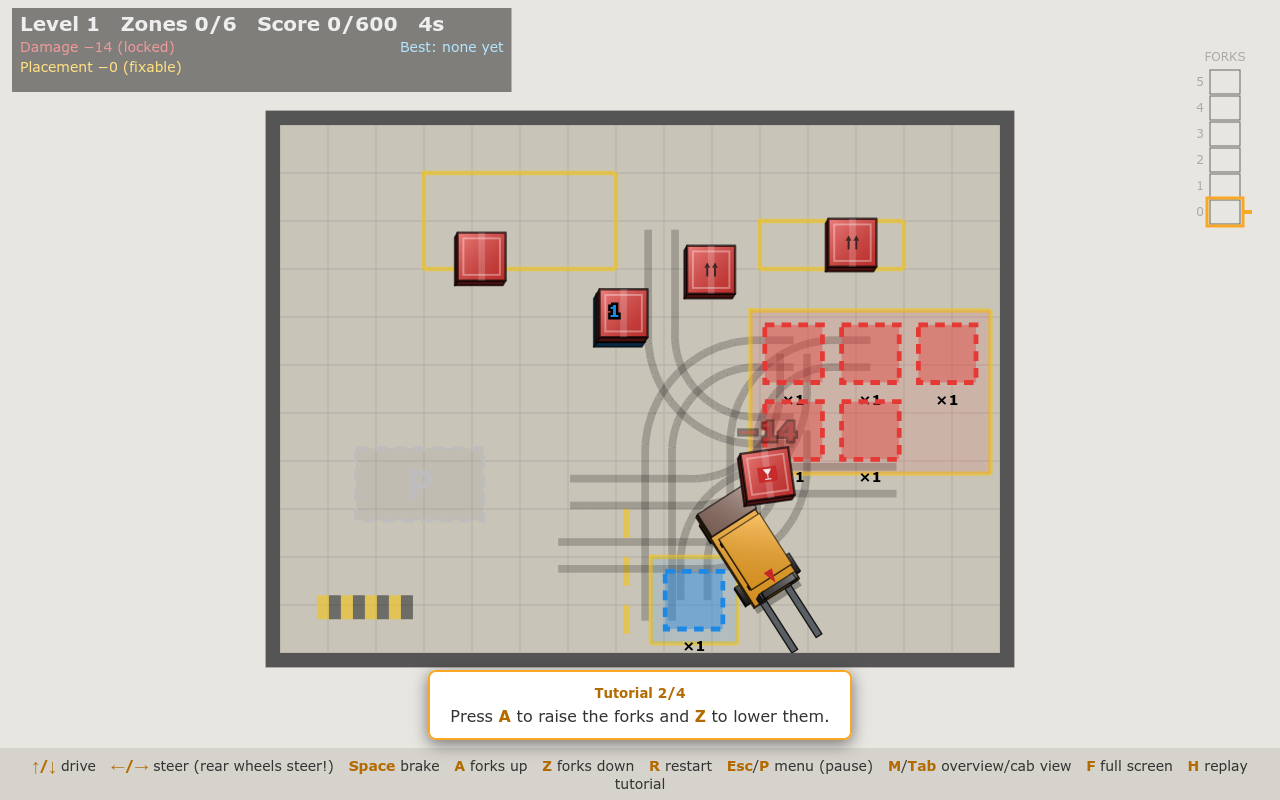
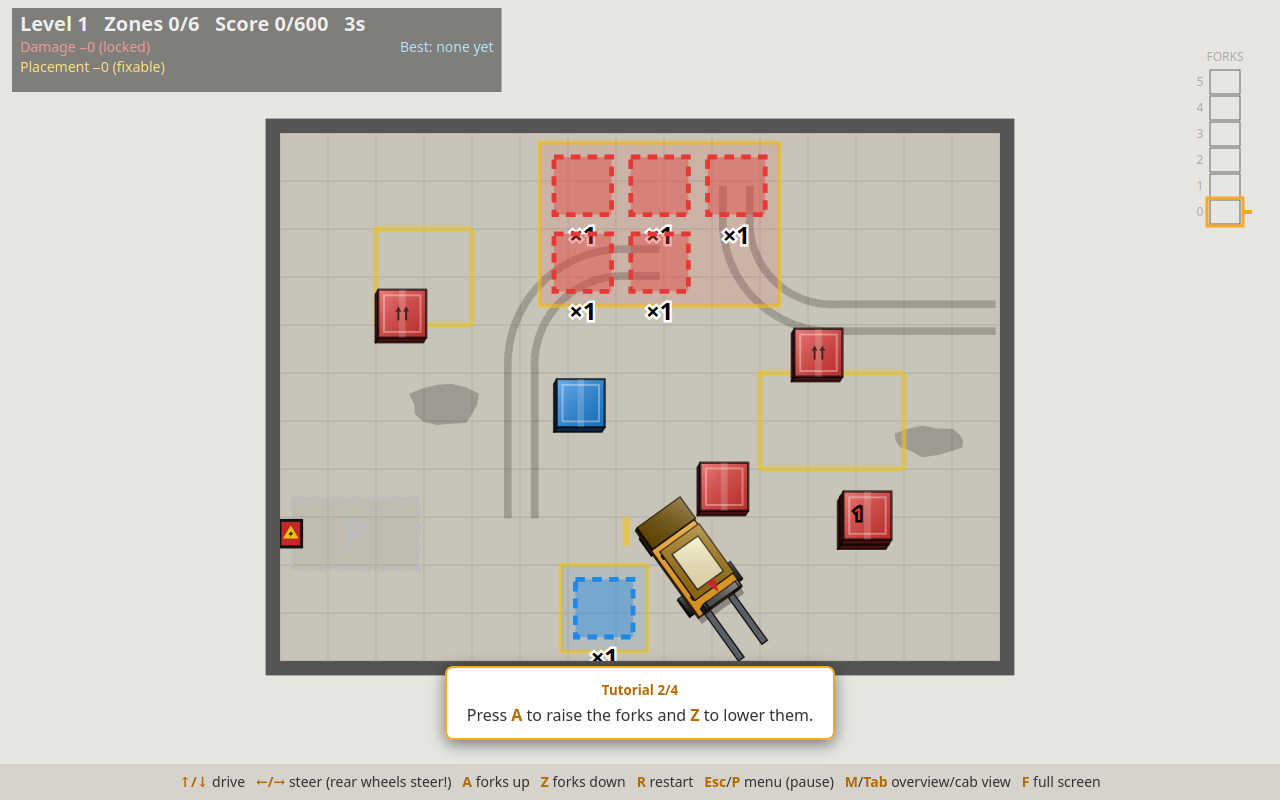
Rewrite presentation from scratch with Oct 28 changes, fresh stats and screenshots

diff --git a/docs/presentation.html b/docs/presentation.html
@@ -26,7 +26,7 @@
   .row figure { flex: 1.2; margin: 0; }
   figure img { width: 100%; border-radius: 8px; border: 1px solid #2a313b; box-shadow: 0 6px 24px #0008; display: block; }
   figcaption { font-size: 1.1vw; color: #9aa4b2; margin-top: 1vh; }
-  .chart { display: flex; gap: 1.6vw; align-items: flex-end; justify-content: center; height: 52vh; margin-top: 1vh; }
+  .chart { display: flex; gap: 1.2vw; align-items: flex-end; justify-content: center; height: 52vh; margin-top: 1vh; }
   .col { display: flex; flex-direction: column; align-items: center; justify-content: flex-end; width: 9vw; }
   .col .n { font-size: 2.2vw; font-weight: bold; color: #ffc933; margin-bottom: .6vh; }
   .col .stack { display: flex; flex-direction: column-reverse; width: 100%; border-bottom: 3px solid #6b7684; padding-bottom: 2px; }
@@ -42,7 +42,7 @@
 <section class="slide">
   <h1>Forklift Frenzy</h1>
   <div class="sub">The development timeline of a top-down, keyboard-only forklift puzzle</div>
-  <div class="sub" style="margin-top:3vh">21 – 27 October 2026 · 202 commits · vanilla JS + Canvas 2D · no build, no dependencies</div>
+  <div class="sub" style="margin-top:3vh">21 – 28 October 2026 · 235 commits · vanilla JS + Canvas 2D · no build, no dependencies</div>
   <div class="sub" style="margin-top:6vh;font-size:1.4vw">← / → or Space to navigate</div>
 </section>
 
@@ -52,13 +52,14 @@
     <li>Stack coloured boxes in matching drop zones, then park the forklift</li>
     <li>Rear-wheel-steering bicycle model: the tail swings out</li>
     <li>Deterministic seeded level generator (<code>mulberry32</code>)</li>
-    <li>DOM-free game logic, so tests run in plain Node</li>
-    <li>Static files on GitHub Pages; Firefox is the primary target</li>
+    <li>DOM-free game logic, so the tests run in plain Node</li>
+    <li>Static files on GitHub Pages (and an installable PWA); Firefox is the primary target</li>
   </ul>
   <div class="stats">
-    <div class="stat"><b>~3.7k</b><span>lines of JS</span></div>
+    <div class="stat"><b>~3.9k</b><span>lines of JS</span></div>
+    <div class="stat"><b>235</b><span>commits</span></div>
     <div class="stat"><b>0</b><span>dependencies</span></div>
-    <div class="stat"><b>5</b><span>days of development</span></div>
+    <div class="stat"><b>8</b><span>days (7 with commits)</span></div>
   </div>
 </section>
 
@@ -79,70 +80,47 @@
 
 <section class="slide">
   <div class="date">Day 1 · 21 Oct · Midday</div>
-  <h2>Rules, scoring &amp; polish</h2>
+  <h2>Rules, scoring &amp; branding</h2>
   <div class="row">
   <ul>
     <li>Per-box scoring: crash and squareness deductions (5° allowance)</li>
     <li>Parking spot; finishing needs parking and ≥ 50% score</li>
     <li>Procedural audio: engine whine, music, fork sounds, success chime</li>
     <li>Rebrand to “Forklift Frenzy”: splash screen, favicon, 3D boxes</li>
-    <li>Custom level seeds, random-seed button</li>
-    <li>Project docs: Copilot instructions and <code>CODE_GUIDE.md</code></li>
+    <li>Custom level seeds and a random-seed button</li>
   </ul>
   <figure><img src="shots/02-graphical-overhaul.png" alt=""><figcaption>After the graphical overhaul (ca4b8d9)</figcaption></figure>
   </div>
 </section>
 
 <section class="slide">
-  <div class="date">Day 1 · 21 Oct · Afternoon</div>
-  <h2>Cabin (first-person) view</h2>
+  <div class="date">Day 1 · 21 Oct · Afternoon &amp; evening</div>
+  <h2>Cabin view, tutorial &amp; high scores</h2>
   <div class="row">
   <ul>
-    <li>Polygon-projected FPV with forks, pallets, zones and parking</li>
-    <li>Occlusion clipping, lids, undersides and pallets open on all sides</li>
+    <li>Polygon-projected first-person view with forks, pallets, zones and parking</li>
     <li>Camera follows fork height; rear-view and side mirrors</li>
-    <li>Floor grid and wall textures; dark mode</li>
+    <li>Nudging a box slowly squares it to the forklift</li>
+    <li>Local high scores per level and seed, with a time penalty</li>
+    <li>Step-by-step, action-dismissed tutorial; pause on lost focus</li>
   </ul>
   <figure><img src="shots/03-first-cabin-view.png" alt=""><figcaption>First cabin view (e16cdf4)</figcaption></figure>
   </div>
 </section>
 
 <section class="slide">
-  <div class="date">Day 1 · 21 Oct · Evening</div>
-  <h2>Onboarding &amp; progression</h2>
-  <ul>
-    <li>Nudging a box slowly squares it to the forklift</li>
-    <li>Local high scores per level and seed; time penalty</li>
-    <li>Pause on lost focus</li>
-    <li>Step-by-step, action-dismissed tutorial</li>
-    <li>Drop-off areas favour outer walls</li>
-  </ul>
-</section>
-
-<section class="slide">
   <div class="date">Day 3 · 23 Oct</div>
-  <h2>Hard mode &amp; physics depth</h2>
+  <h2>Physics depth &amp; new levels</h2>
   <div class="row">
   <ul>
-    <li>Pallets glide, split or get pushed when turning with forks inside</li>
-    <li>Hard mode: tines collide with pallet runners; push torque turns boxes</li>
+    <li>Hard mode: pallets glide, split or get pushed; tines hit pallet runners</li>
     <li>Boxes need 50% support or fall beside the stack; crooked towers</li>
     <li>Rooms-and-corridors level generator replaces random pillars</li>
-    <li>Cab view rewritten as a polygon-projection renderer</li>
+    <li>Escape menu with full screen, mute, go-to-level and shortcuts</li>
+    <li>Floating damage popups and a break sound</li>
   </ul>
   <figure><img src="shots/04-rooms-corridors.png" alt=""><figcaption>Rooms-and-corridors levels (c328e96)</figcaption></figure>
   </div>
-</section>
-
-<section class="slide">
-  <div class="date">Day 3 · 23 Oct</div>
-  <h2>Menus &amp; feedback</h2>
-  <ul>
-    <li>Escape menu: engine whine, music, restart, hard mode, go to level</li>
-    <li>Full screen, mute-all, underlined keyboard shortcuts</li>
-    <li>Parking spot shows the required heading arrow; random spawn</li>
-    <li>Floating damage popups and a break sound</li>
-  </ul>
 </section>
 
 <section class="slide">
@@ -150,12 +128,11 @@
   <h2>Handling &amp; factory atmosphere</h2>
   <div class="row">
   <ul>
-    <li>Height-based speed limit for raised forks</li>
-    <li>Larger steering lock, tapered by speed (later no longer limited by fork height)</li>
-    <li>Overview becomes the default view; view mode is remembered</li>
-    <li>Floor decals: tire marks, yellow markings, windows, doors, signs</li>
-    <li>Ceiling, factory lights, fans; walls raised to clear a 5-box stack</li>
-    <li>Box decals; <code>?debug</code> overlay with FPS and state</li>
+    <li>Height-based speed limit for raised forks; larger, speed-tapered steering lock</li>
+    <li>Overview becomes the default view and is remembered</li>
+    <li>Floor and wall decals: tire marks, yellow markings, windows, doors, signs</li>
+    <li>Ceiling, factory lights and fans; walls raised to clear a 5-box stack</li>
+    <li>Box decals and a <code>?debug</code> overlay</li>
   </ul>
   <figure><img src="shots/05-decals.png" alt=""><figcaption>Floor and wall decals (aed730f)</figcaption></figure>
   </div>
@@ -163,35 +140,25 @@
 
 <section class="slide">
   <div class="date">Day 5 · 25 Oct</div>
-  <h2>Sound &amp; music</h2>
+  <h2>Sound, saves &amp; touch</h2>
   <ul>
     <li>Reversing beep and a blue reversing light that walls cut off</li>
-    <li>Selectable music: generated tracks, then public-domain and CC0 MIDI songs with a drum synth</li>
-    <li>Clearer MIDI voices (EQ, brighter instruments, tighter reverb)</li>
-    <li>New music library: country, classical, industrial metal, techno and more, all CC0/public domain with quirky names</li>
+    <li>Selectable MIDI music (public domain / CC0) with a drum synth; wall bonk and scrape sounds</li>
+    <li>Progress saved in <code>localStorage</code>; export/import of level state</li>
+    <li>Wall-mounted charger to park against; carried stacks can't be lifted into the ceiling</li>
+    <li>On-screen touch controls and an installable PWA</li>
+    <li>First version of this presentation</li>
   </ul>
 </section>
 
 <section class="slide">
-  <div class="date">Day 5 · 25 Oct</div>
-  <h2>Final touches</h2>
-  <div class="row">
-  <ul>
-    <li>Score explanations on splash and level-complete screens</li>
-    <li>Level timer stops on completion; jump to lowest unscored level</li>
-    <li>Debug overlay shows update/draw/idle share</li>
-  </ul>
-  <figure><img src="shots/06-overview-latest.png" alt=""><figcaption>Latest overview, with damage popups and tutorial</figcaption></figure>
-  </div>
-</section>
-
-<section class="slide">
-  <div class="date">Day 5 · 25 Oct</div>
-  <h2>On the phone: touch controls</h2>
+  <div class="date">Days 6–7 · 26 – 27 Oct</div>
+  <h2>On the phone</h2>
   <ul style="font-size:1.6vw;margin:0 0 2vh">
-    <li>On-screen buttons, tap to continue, a zoomed follow-camera overview with a minimap</li>
-    <li>Rotatable PWA: landscape layout with the field up top, steering bottom left, drive/forks bottom right, minimap and status between</li>
-    <li>Brake removed: engine braking does the slowing; touch start goes full screen</li>
+    <li>Rotatable landscape layout: field on top, steering bottom left, drive/forks bottom right, minimap and status between</li>
+    <li>Zoomed follow-camera overview; the map pans past its edges so pads never hide it</li>
+    <li>Brake removed (engine braking does the slowing); touch start enters full screen</li>
+    <li>Touch state derived from live touches (fixes flaky PWA steering); service worker bypasses the HTTP cache</li>
   </ul>
   <div style="display:flex;gap:3vw;align-items:center;justify-content:center">
     <figure style="margin:0;flex:2.2;max-width:60vw"><img src="shots/08-touch-landscape.png" alt=""><figcaption style="text-align:center">Landscape: steering left, drive and forks right, minimap and status between</figcaption></figure>
@@ -200,8 +167,37 @@
 </section>
 
 <section class="slide">
-  <h2>Where it ended up: the cabin view</h2>
-  <figure style="margin:0;max-height:70vh"><img src="shots/07-cabin-latest.png" alt="" style="max-height:68vh;width:auto;margin:0 auto"><figcaption style="text-align:center">Latest cabin view: mirrors, decals, zone labels and damage popups (HEAD)</figcaption></figure>
+  <div class="date">Day 8 · 28 Oct</div>
+  <h2>A splash with style</h2>
+  <div class="row">
+  <ul>
+    <li>Splash: a forklift drifting a figure eight with smoke, boxes and permanent skidmarks</li>
+    <li>Higher wall/floor contrast; the in-game forklift restyled to match the splash</li>
+    <li>Bigger levels now that the map pans</li>
+    <li>Fullscreen is an opt-in menu setting; pause-menu touches no longer reach the pad</li>
+    <li>Service worker auto-reloads on a new version</li>
+  </ul>
+  <figure><img src="shots/10-splash-figure-eight.png" alt=""><figcaption>The new splash screen (HEAD)</figcaption></figure>
+  </div>
+</section>
+
+<section class="slide">
+  <div class="date">Day 8 · 28 Oct</div>
+  <h2>New soundtrack &amp; calmer menus</h2>
+  <ul>
+    <li>Music library replaced: country, classical, industrial metal, techno and more, all CC0 / public domain</li>
+    <li>Music keeps playing in the pause menu and when focus is lost</li>
+    <li>Tutorial restart moved from the <code>H</code> key to a pause-menu button</li>
+    <li>Pause-menu shortcuts for tutorial, resume, auto-fullscreen and hard mode dropped</li>
+  </ul>
+</section>
+
+<section class="slide">
+  <h2>Where it ended up</h2>
+  <div style="display:flex;gap:2vw;align-items:flex-start;justify-content:center">
+    <figure style="margin:0;flex:1"><img src="shots/06-overview-latest.png" alt=""><figcaption style="text-align:center">Overview: tutorial, fork gauge, yellow drop-off outlines</figcaption></figure>
+    <figure style="margin:0;flex:1"><img src="shots/07-cabin-latest.png" alt=""><figcaption style="text-align:center">Cabin view: mirrors, ceiling lights, decals and zone labels</figcaption></figure>
+  </div>
 </section>
 
 <section class="slide">
@@ -221,14 +217,15 @@
 <section class="slide">
   <h2>Timeline at a glance</h2>
   <ul>
-    <li><b>21 Oct</b> – core game, scoring, audio, branding, cabin view, tutorial (~80 commits)</li>
+    <li><b>21 Oct</b> – core game, scoring, audio, branding, cabin view, tutorial (79 commits)</li>
     <li><b>23 Oct</b> – hard mode, stacking physics, room levels, menus</li>
     <li><b>24 Oct</b> – handling, decals, factory look, debug tools</li>
-    <li><b>25 Oct</b> – reversing aids, music library, scoring UX, touch controls</li>
-    <li><b>26 – 27 Oct</b> – landscape PWA layout, steering fix, brake removed, full screen on touch</li>
+    <li><b>25 Oct</b> – reversing aids, music, saves, touch controls, PWA</li>
+    <li><b>26 – 27 Oct</b> – landscape layout, brake removed, touch fixes</li>
+    <li><b>28 Oct</b> – animated splash, new soundtrack, menu cleanup</li>
   </ul>
-  <div class="bar"><div class="on"></div><div></div><div class="on"></div><div class="on"></div><div class="on"></div><div class="on"></div><div class="on"></div></div>
-  <div class="sub" style="margin-top:1vh;font-size:1.3vw">21 · 22 · 23 · 24 · 25 · 26 · 27 Oct (no commits on the 22nd) · activity peaked on day 1, then ramped down to a few tiny tweaks by the 27th</div>
+  <div class="bar"><div class="on"></div><div></div><div class="on"></div><div class="on"></div><div class="on"></div><div class="on"></div><div class="on"></div><div class="on"></div></div>
+  <div class="sub" style="margin-top:1vh;font-size:1.3vw">21 · 22 · 23 · 24 · 25 · 26 · 27 · 28 Oct (no commits on the 22nd) · biggest day was day 1, then steady polish</div>
 </section>
 
 <section class="slide">
@@ -238,7 +235,7 @@
 
 <div id="nav"></div>
 <script>
-  const perDay = {"21 Oct":[851,243,23,147,109,14,24,65,40,57,56,1,54,2,4,121,33,23,35,28,35,63,78,169,141,2,86,50,87,10,7,6,12,104,118,83,18,43,21,14,7,39,15,3,0,41,13,44,2,18,40,17,106,19,19,52,78,14,4,7,0,11,0,52,11,13,12,4,25,6,29,55,7,0,39,8,2,4,2],"22 Oct":[],"23 Oct":[100,46,48,35,30,29,53,0,86,0,67,176,2,0,105,35,84,21,16,29,11,22,399,55,25,35,88,17],"24 Oct":[50,0,19,0,51,0,16,0,250,21,129,39,29,75,2,0,19,25,31,2,10,74,44,90,36,23],"25 Oct":[20,26,107,6,14,20,202,62,41,42,156,194,96,28,0,132,7,4,18,36,3,96,41,4,58,187,28,28,0,3,59,8,126,4,50,10,7,0,43,70,72,6,6,9,152,8,2,57,4],"26 Oct":[33,0,48,6,21,100,1,0],"27 Oct":[8,8,0,11,0,20,0,2,2,14,0]};
+  const perDay = {"21 Oct":[851,243,23,147,109,14,24,65,40,57,56,1,54,2,4,121,33,23,35,28,35,63,78,169,141,2,86,50,87,10,7,6,12,104,118,83,18,43,21,14,7,39,15,3,0,41,13,44,2,18,40,17,106,19,19,52,78,14,4,7,0,11,0,52,11,13,12,4,25,6,29,55,7,0,39,8,2,4,2],"22 Oct":[],"23 Oct":[100,46,48,35,30,29,53,0,86,0,67,176,2,0,105,35,84,21,16,29,11,22,399,55,25,35,88,17],"24 Oct":[50,0,19,0,51,0,16,0,250,21,129,39,29,75,2,0,19,25,31,2,10,74,44,90,36,23],"25 Oct":[20,26,107,6,14,20,202,62,41,42,156,194,96,28,0,132,7,4,18,36,3,96,41,4,58,187,28,28,0,3,59,8,126,4,50,10,7,0,43,70,72,6,6,9,152,8,2,57,4],"26 Oct":[33,0,48,6,21,100,1,0],"27 Oct":[8,8,0,11,0,20,0,2,2,14,0,43,2,2,6,6,4,27,33,11,25,15,41,9],"28 Oct":[9,0,12,0,10,8,23,112,8,25,1,62,16,53,18,17,31,20,2,11,11]};
   const chart = document.getElementById('chart');
   for (const [day, commits] of Object.entries(perDay)) {
     const total = commits.reduce((a, b) => a + b, 0);
